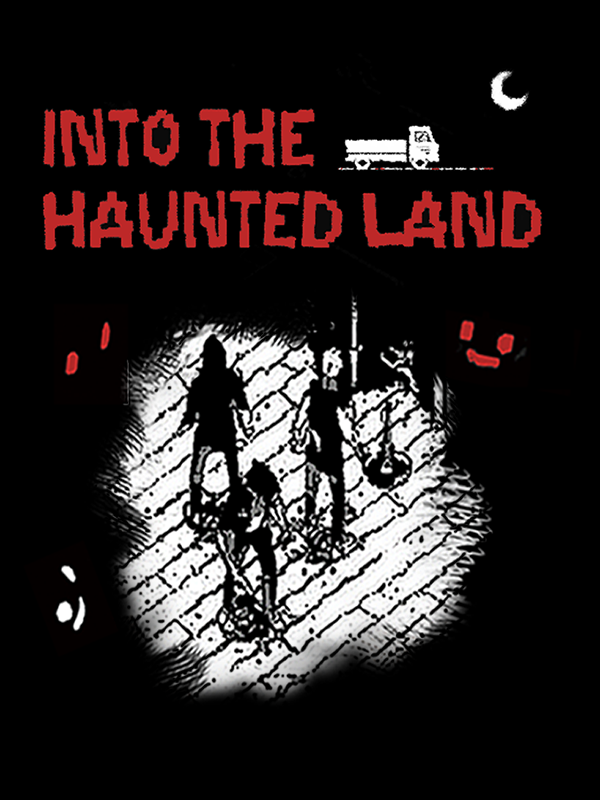
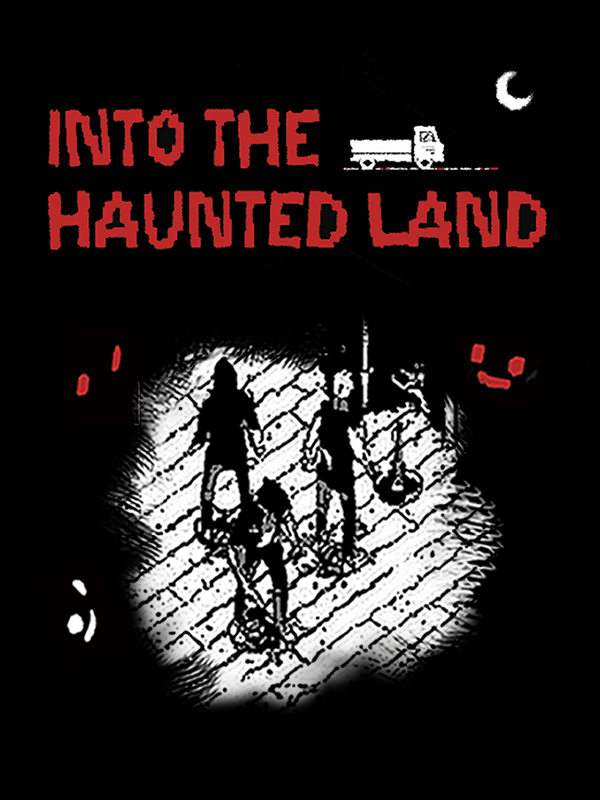
新增Slogan

diff --git a/styles.css b/styles.css
@@ -131,6 +131,9 @@ nav a:hover { color: var(--ink); }
   font-size: 1.08rem;
   line-height: 1.2;
 }
+.tagline h3 {
+  color: var(--red);
+}
 .tagline ul {
   margin: 0 0 12px;
   padding-left: 1.15rem;
@@ -177,15 +180,11 @@ nav a:hover { color: var(--ink); }
   position: sticky;
   top: 88px;
   align-self: start;
-  z-index: 2;
-  margin-top: clamp(-300px, -12.5vw, -108px);
   transform: translateX(clamp(-42px, -2.4vw, -18px));
   border-top: 4px solid var(--red);
   background: var(--panel);
   padding: clamp(18px, 1.6vw, 26px);
   box-shadow: 0 20px 60px var(--shadow);
-  max-height: calc(100vh - 112px);
-  overflow-y: auto;
 }
 .press-card-logo {
   width: 100%;
@@ -250,6 +249,9 @@ p { color: var(--muted); font-size: 1rem; }
 .description h3 {
   margin: 28px 0 12px;
   font-size: clamp(1.45rem, 2.25vw, 2rem);
+}
+.text-block-upper h3 {
+  color: var(--red);
 }
 .description h4 {
   margin: 24px 0 10px;
@@ -407,7 +409,8 @@ dd { margin: 4px 0 0; font-weight: 700; }
   scroll-snap-type: x proximity;
   scrollbar-color: var(--red) rgba(255, 255, 255, 0.08);
   user-select: none;
-  touch-action: pan-y;
+  touch-action: pan-x;
+  -webkit-overflow-scrolling: touch;
   overscroll-behavior-x: contain;
 }
 .asset-scroll::-webkit-scrollbar {

diff --git a/content/zh-TW/upper-text.md b/content/zh-TW/upper-text.md
@@ -1,1 +1,3 @@
+### 歡迎來到詭域，我由衷希望你能保持著貪婪...
+
 [《詭域深行》](https://store.steampowered.com/app/1917470)是一款 1–6 人遊玩的線上合作恐怖探索遊戲。玩家需要與朋友組隊探索遺跡、搜刮被詛咒的物品、躲藏並逃離怪物、並想辦法安全撤離；團隊必須在避免被詭域吞噬的同時，想盡辦法完成公會的配額。

diff --git a/content/zh-TW/pitch.md b/content/zh-TW/pitch.md
@@ -1,2 +1,2 @@
 ### 詭域深行
-#### 一款線上多人恐怖探索遊戲
+#### 一款線上合作恐怖探索遊戲
